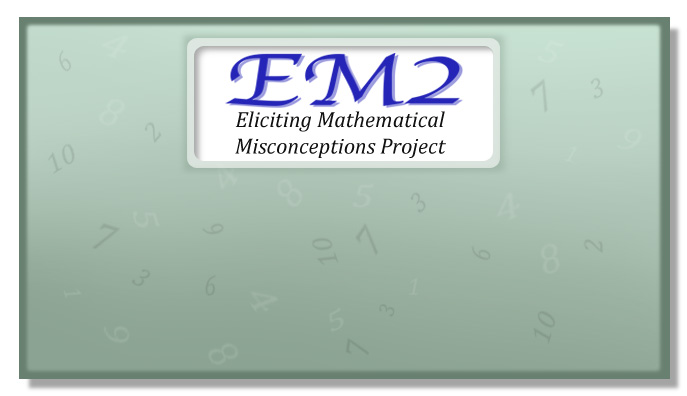
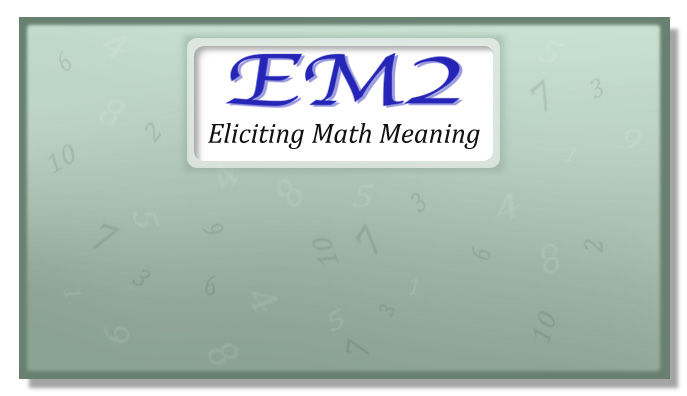
changed login background to reflect new name Eliciting Math Meaning

Changed region(s): [[0.3057, 0.2727, 0.7031, 0.3939]]

diff --git a/app/stylesheets/login.sass b/app/stylesheets/login.sass
@@ -14,7 +14,7 @@ body.modal
     padding: 0
 
   #modal-box-top
-    background: url(/images/login-bg.jpg) no-repeat
+    background: url(/images/login-bg.png) no-repeat
     width: $modal_box_width
     height: 10px
     overflow: hidden
@@ -22,7 +22,7 @@ body.modal
     padding: 10px 20px 0 20px
     position: relative
   #modal-box-bottom
-    background: url(/images/login-bg.jpg) no-repeat bottom center
+    background: url(/images/login-bg.png) no-repeat bottom center
     width: $modal_box_width
     height: 9px
     overflow: hidden

diff --git a/app/stylesheets/login_student.sass b/app/stylesheets/login_student.sass
@@ -14,7 +14,7 @@ body.modal
     padding: 0
 
   #modal-box-top
-    background: url(/images/login-bg.jpg) no-repeat
+    background: url(/images/login-bg.png) no-repeat
     width: $modal_box_width
     height: 10px
     overflow: hidden
@@ -22,7 +22,7 @@ body.modal
     padding: 10px 20px 0 20px
     position: relative
   #modal-box-bottom
-    background: url(/images/login-bg.jpg) no-repeat bottom center
+    background: url(/images/login-bg.png) no-repeat bottom center
     width: $modal_box_width
     height: 9px
     overflow: hidden
